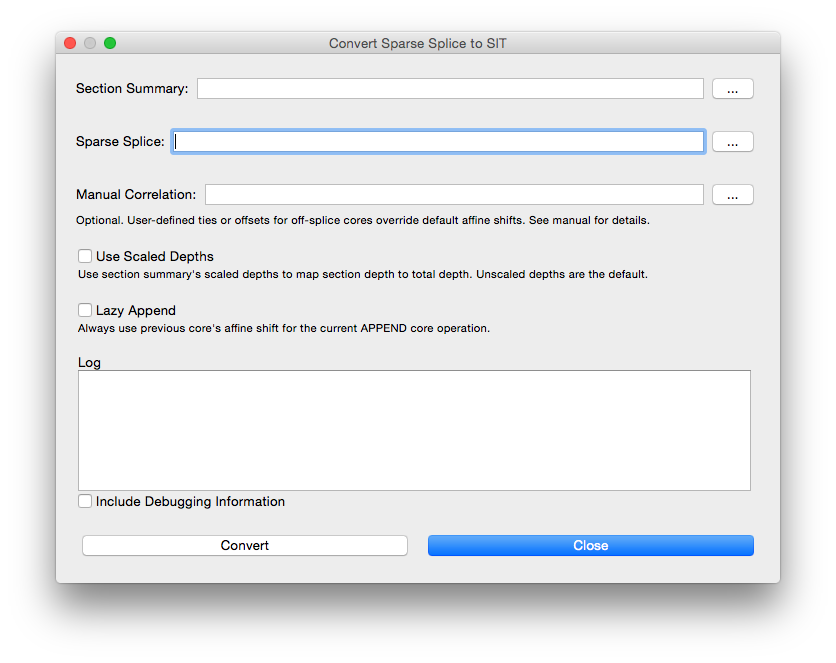
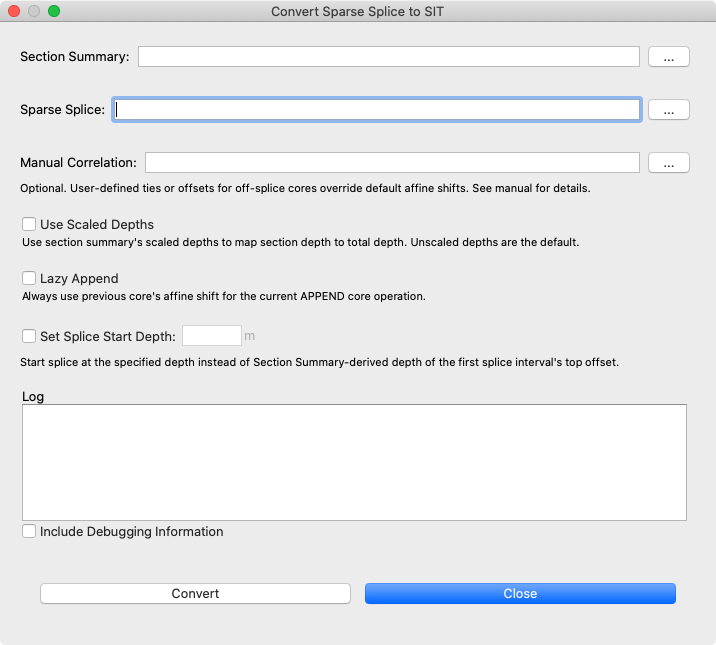
Sparse Splice Depth docu updates,  docu formatting/screenshot tweaks

Changed region(s): [[0.0, 0.0, 1.0, 0.9612], [0.8603, 0.2791, 0.8911, 0.3101]]

diff --git a/doc/manual.html b/doc/manual.html
@@ -1,5 +1,5 @@
 <h2 id="feldman-users-guide">Feldman User's Guide</h2>
-<p><em>October 27, 2025</em><br />
+<p><em>November 4, 2025</em><br />
 <em>version 1.0.5</em></p>
 <h2 id="introduction">Introduction</h2>
 <p>Feldman is a software utility developed by <a href="https://cse.umn.edu/csd">CSD Facility</a> to aid in the process of aligning and splicing core sections from multiple holes, and exporting measurement data based on a splice. It runs on Macs (OSX, macOS) and Windows.</p>
@@ -28,7 +28,7 @@
 </blockquote>
 <p>A list of all formats supported by Feldman follows:</p>
 <h3 id="section-summary">Section Summary</h3>
-<p>A section summary table contains one row for each section in a project. It is used to translate section depths to total depth, and as a "master list" of a project's core sections. Sections that may not be included in a splice, but are part of measurement data to be spliced, should be included.</p>
+<p>A section summary table contains one row for each section in a project. It is used to translate section depths to total depth, and is a "master list" of a project's core sections. Sections that may not be included in a splice, but are part of measurement data to be spliced, should be included.</p>
 <p>A section summary must include the following columns:</p>
 <blockquote>
 <pre><code>  Identity Columns: Site, Hole, Core, Core Type/Tool, and Section  
@@ -46,7 +46,7 @@
   sections with no gaps.</code></pre>
 </blockquote>
 <h3 id="sparse-splice">Sparse Splice</h3>
-<p>A sparse splice table contains one row for each interval of a sparse splice. Each interval is defined only in section depths, not total depths. The term "sparse" comes from the lack of total depths.</p>
+<p>A sparse splice table contains one row for each interval of a sparse splice. Each interval is defined only in section depths, not total depths. The term "sparse" refers to the lack of total depths.</p>
 <p>A sparse splice table must include the following columns:</p>
 <blockquote>
 <pre><code>  Identity Columns: Site, Hole, Core, and Core Type/Tool
@@ -158,9 +158,10 @@
 <p><img src="images/sparseToSIT.png" /></p>
 <p>The generated affine and SIT are written to the same directory as the input sparse splice file. They use the sparse splice's filename plus "-affine" or "-SIT". For example, for a sparse splice file named MySparseSplice.csv, the resulting affine and SIT are named MySparseSplice-affine.csv and MySparseSplice-SIT.csv, respectively.</p>
 <p>Click the "..." buttons to select section summary and sparse splice files as input. Alternately, files can be dragged and dropped into the interface.</p>
-<p>Manual Correlation: Optional. By default, Feldman sets the affine offset of an off-splice core to the affine offset of the nearest on-splice core in the same hole. Default affine offsets can be overriden by providing a manual correlation. Manual Correlation Tie Tables or Manual Offset Tables are accepted as valid Manual Correlation input.</p>
-<p>Use Scaled Depths: if checked, the section summary's scaled depths will be used to map section depth to total depth. Unscaled depths are the default.</p>
-<p>Lazy Append: if checked, for an APPEND operation, the affine shift of the previous core in the splice will be used for the current core, even if they're from different holes. By default, the gap between the previous core's bottom and the current core's top will be computed in scaled depth and used for the current core's affine shift.</p>
+<p><strong>Manual Correlation:</strong> Optional. By default, Feldman sets the affine offset of an off-splice core to the affine offset of the nearest on-splice core in the same hole. Default affine offsets can be overriden by providing a manual correlation. Manual Correlation Tie Tables or Manual Offset Tables are accepted as valid Manual Correlation input.</p>
+<p><strong>Use Scaled Depths:</strong> if checked, the section summary's scaled depths will be used to map section depth to total depth. Unscaled depths are the default.</p>
+<p><strong>Lazy Append:</strong> if checked, for an APPEND operation, the affine shift of the previous core in the splice will be used for the current core, even if they're from different holes. By default, the gap between the previous core's bottom and the current core's top will be computed in scaled depth and used for the current core's affine shift.</p>
+<p><strong>Set Start Splice Depth:</strong> if checked, the splice will start at the specified depth (in meters) instead of the default Section Summary-derived depth of the first splice interval's top offset. This is achieved by affine shifting the interval's core to align its top offset with the specified start depth.</p>
 <p>Once input data and options are selected, click Convert. Major steps of the conversion process will be noted in the Log window. If the "Include Debugging Information" checkbox is checked, a far more detailed account of the process is provided, which can be helpful in the case of errors or unexpected outputs.</p>
 <h3 id="splice-measurement-data">Splice Measurement Data</h3>
 <p>Given an affine and splice interval table (SIT), and one or more measurement data files, Feldman will splice each measurement data file, generating a new file including only rows whose Depth is within the range of a splice interval.</p>
@@ -177,6 +178,6 @@
 <p>Click the "Add/Remove" buttons to add/remove one or more measurement data files to the list.</p>
 <p>Alternately, files can be selected by dragging them into the interface.</p>
 <p>Select the column to use as the Depth Column for each measurement data file to be spliced. Only those columns with numeric values will be included in this list.</p>
-<p>Off Splice: if checked, rows of data that are off-splice are included with On-Splice value 'off-splice'. If the input measurement data file contains rows from sections that are not part of the input affine table, such rows will be written to a file with "-unwritten" appended to the input file's name.</p>
-<p>Whole Section Splice: if checked, all rows of data from on-splice core sections will be included with On-Splice value 'splice'. For example, consider a splice interval with top section 1 at depth 20cm and bottom section 2 at depth 90cm. If Whole Section is checked, <em>all</em> measurements from section 1 and 2 will be included, even those above 20cm in section 1 and those below 90cm in section 2. Measurements from section 3, however, will <em>not</em> be included because that section isn't part of the splice interval.</p>
+<p><strong>Off Splice:</strong> if checked, rows of data that are off-splice are included with On-Splice value 'off-splice'. If the input measurement data file contains rows from sections that are not part of the input affine table, such rows will be written to a file with "-unwritten" appended to the input file's name.</p>
+<p><strong>Whole Section Splice:</strong> if checked, all rows of data from on-splice core sections will be included with On-Splice value 'splice'. For example, consider a splice interval with top section 1 at depth 20cm and bottom section 2 at depth 90cm. If Whole Section is checked, <em>all</em> measurements from section 1 and 2 will be included, even those above 20cm in section 1 and those below 90cm in section 2. Measurements from section 3, however, will <em>not</em> be included because that section isn't part of the splice interval.</p>
 <p>Once input data and options are selected, click Splice Data. Major steps of the splicing process will be noted in the Log window. If the "Include Debugging Information" checkbox is checked, a far more detailed account of the process is provided, which can be helpful in the case of errors or unexpected outputs.</p>
